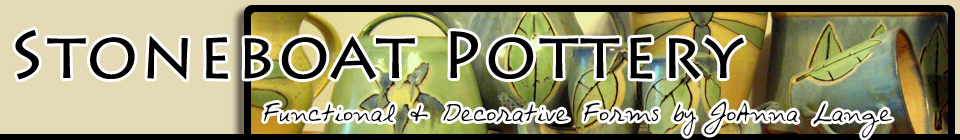
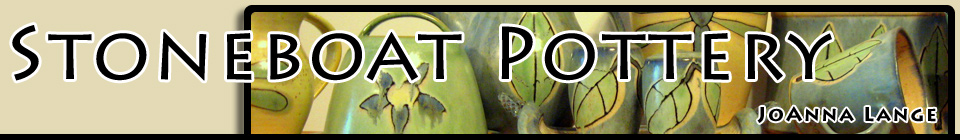
Fixed multiple things for JoAnna. Fixed populates, proboblems in image naming. Updated the header image. Kept feature list up to date

Changed region(s): [[0.0, 0.1714, 0.875, 0.6], [0.25, 0.7143, 1.0, 1.0], [0.0, 0.4857, 0.0312, 0.6]]

diff --git a/db/populate/blocks.rb b/db/populate/blocks.rb
@@ -1,8 +1,8 @@
 Block.connection.execute("truncate blocks;")
 
 blocks = [
-          {:label => "about_joanna", :section_path => "/about_joanna", :accepts_image => true},
-          {:label => "about_stoneboat", :section_path => "/about_stoneboat", :accepts_image => true},
+          {:label => "about_joanna", :section_path => "/about", :accepts_image => true},
+          {:label => "about_stoneboat", :section_path => "/about", :accepts_image => true},
           {:label => "contact", :section_path => "/contact", :accepts_image => false},
           {:label => "wholesale", :section_path => "/wholesale", :accepts_image => false}
         ]
